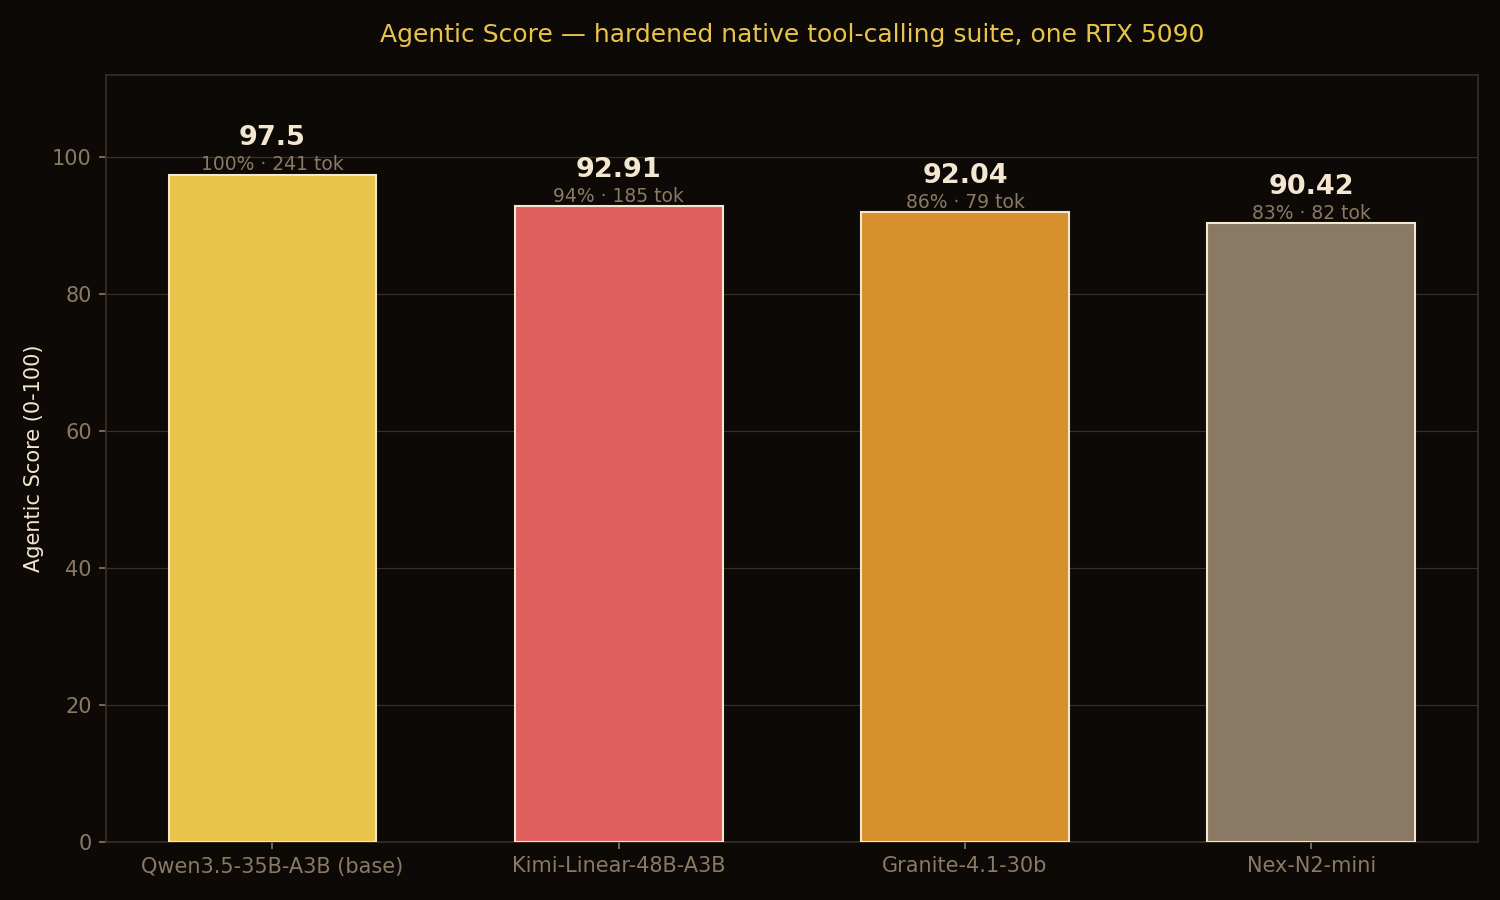
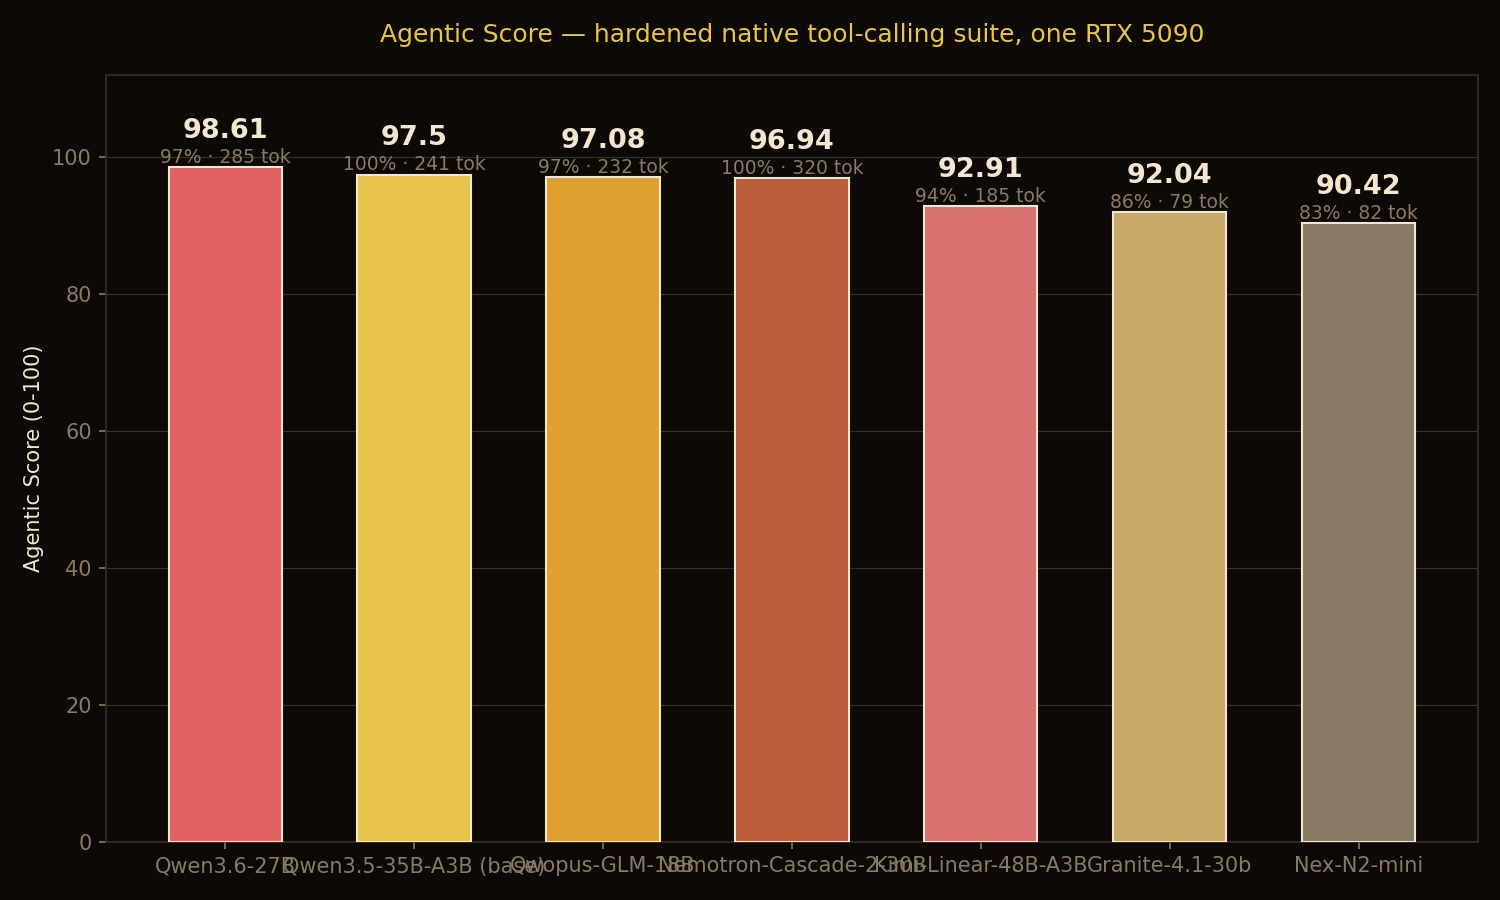
feat(agentic): expand leaderboard to 7 models (hermes-pairing cohort)
Added Qwen3.6-27B, Nemotron-Cascade-2-30B, Qwopus-GLM-18B (all cached, all gated pass).
Top 4 within 1.7pts (tie). Qwen3.6-27B (Donald's model) #1 w/ perfect tool-eff; Qwopus
18B merge punches to #3 + holds 128K on 13GB; long-context needs room AND retrieval
(Granite OOMs, Nemotron fits-but-retrieves-0). 7-model charts + report + HF republish.

diff --git a/scripts/chart_agentic_leaderboard.py b/scripts/chart_agentic_leaderboard.py
@@ -9,12 +9,15 @@ import numpy as np
 BG, GOLD, CRIMSON, TEXT, GRID, MUTE = ("#0d0906", "#e8c44a", "#e06060", "#f5e6d0", "#3a2f25", "#8a7a64")
 AMBER = "#d8902f"
 
-# Kimi highlighted crimson = the hardened-suite find (best all-rounder + holds 128K)
+# 7-model board (ordered by Agentic Score). Warm brand palette, varied for legibility.
 MODELS = [
-    ("kimi-linear-48b-a3b", "Kimi-Linear-48B-A3B",  CRIMSON),
+    ("qwen3-6-27b",         "Qwen3.6-27B",            CRIMSON),
     ("qwen3-5-35b-base",    "Qwen3.5-35B-A3B (base)", GOLD),
-    ("granite-4-1-30b",     "Granite-4.1-30b",      AMBER),
-    ("nex-n2-mini",         "Nex-N2-mini",          MUTE),
+    ("qwopus-glm-18b",      "Qwopus-GLM-18B",         "#e0a030"),
+    ("nemotron-cascade-2-30b", "Nemotron-Cascade-2-30B", "#b85c3c"),
+    ("kimi-linear-48b-a3b", "Kimi-Linear-48B-A3B",    "#d87070"),
+    ("granite-4-1-30b",     "Granite-4.1-30b",        "#c9a86a"),
+    ("nex-n2-mini",         "Nex-N2-mini",            MUTE),
 ]
 D = {s: json.loads(Path(f"results/{s}/agentic_native.json").read_text()) for s, _, _ in MODELS}
 
@@ -28,17 +31,24 @@ def lc(slug, tier):
 
 
 # --- Chart 1: efficiency frontier ---
-fig, ax = plt.subplots(figsize=(10, 6.5), facecolor=BG); ax.set_facecolor(BG)
-for slug, name, color in MODELS:
+SHORT = {"qwen3-6-27b": "Qwen3.6-27B", "qwen3-5-35b-base": "Qwen3.5 base",
+         "qwopus-glm-18b": "Qwopus-18B", "nemotron-cascade-2-30b": "Nemotron-C2",
+         "kimi-linear-48b-a3b": "Kimi-Linear", "granite-4-1-30b": "Granite-30B",
+         "nex-n2-mini": "Nex-N2-mini"}
+fig, ax = plt.subplots(figsize=(11, 6.5), facecolor=BG); ax.set_facecolor(BG)
+# sort by x (tokens) and alternate label up/down so x-adjacent points never collide
+by_x = sorted(MODELS, key=lambda m: D[m[0]]["tokens_per_task"])
+for rank, (slug, name, color) in enumerate(by_x):
     d = D[slug]
     x, y = d["tokens_per_task"], d["task_success_pct"]
-    ax.scatter([x], [y], s=320, color=color, edgecolor=TEXT, zorder=4, linewidth=1.2)
-    ax.annotate(f"{name}\nscore {d['score']}  ·  {d['tool_eff']:.2f} tool-eff",
-                (x, y), color=TEXT, fontsize=10, ha="center", va="bottom",
-                xytext=(0, 14), textcoords="offset points")
+    ax.scatter([x], [y], s=260, color=color, edgecolor=TEXT, zorder=4, linewidth=1.2)
+    above = (rank % 2 == 0)
+    ax.annotate(f"{SHORT[slug]}  ({d['score']})", (x, y), color=TEXT, fontsize=9, ha="center",
+                va=("bottom" if above else "top"), xytext=(0, 12 if above else -12),
+                textcoords="offset points")
 ax.set_xlabel("tokens / task  (lower = leaner)", color=TEXT)
 ax.set_ylabel("task success %  (36-task hardened suite)", color=TEXT)
-ax.set_xlim(40, 290); ax.set_ylim(78, 106)
+ax.set_xlim(20, 370); ax.set_ylim(76, 106)
 ax.set_title("Hardened agentic suite: efficiency and robustness pull apart", color=GOLD, pad=16, fontsize=12.5)
 for s in ax.spines.values(): s.set_color(GRID)
 ax.tick_params(colors=MUTE); ax.grid(True, color=GRID, linewidth=0.6, zorder=0)

diff --git a/scripts/build_agentic_leaderboard.py b/scripts/build_agentic_leaderboard.py
@@ -20,6 +20,13 @@ META = {
     "kimi-linear-48b-a3b": {"name": "Kimi-Linear-48B-A3B", "params": "48B-A3B", "quant": "Q4_K_M",
                             "repo": "bartowski/moonshotai_Kimi-Linear-48B-A3B-Instruct-GGUF",
                             "note": "linear-attention; runs natively on one 5090; long-context untested here"},
+    "qwen3-6-27b":         {"name": "Qwen3.6-27B", "params": "27B", "quant": "Q6_K",
+                            "repo": "unsloth/Qwen3.6-27B-GGUF", "note": "dense 27B; the model Donald itself runs"},
+    "nemotron-cascade-2-30b": {"name": "Nemotron-Cascade-2-30B", "params": "30B-A3B", "quant": "Q4_K_M",
+                            "repo": "bartowski/nvidia_Nemotron-Cascade-2-30B-A3B-GGUF",
+                            "note": "Nvidia; the rig's prior speed-king"},
+    "qwopus-glm-18b":      {"name": "Qwopus-GLM-18B", "params": "18B", "quant": "Q6_K",
+                            "repo": "KyleHessling1/Qwopus-GLM-18B-Merged-GGUF", "note": "GLM-based community merge"},
 }
 
 rows = []

diff --git a/reports/agentic-leaderboard.md b/reports/agentic-leaderboard.md
@@ -1,63 +1,63 @@
-# Agentic Score leaderboard (hardened): efficiency and robustness pull apart
+# Agentic Score leaderboard (7 models): small models punch up, long-context splits the field
 
 **Rig:** one RTX 5090 32GB · llama.cpp b9562 · native OpenAI tool-calling (`--jinja`) · temp 0
-**Harness (hardened):** 40 deterministic tasks — 36 across **five short-context axes** (chain, multistep,
-coding, **error-recovery**, **distractor**) scored into the Agentic Score, plus a **separate long-context
-axis** (a `read_doc` tool returns a seeded document with a buried activation code, at 32K and 128K).
-Programmatic verification; a sub-5% score gap is a tie.
+**Harness:** 40 deterministic tasks — 36 across **five short-context axes** (chain, multistep, coding,
+error-recovery, distractor) → the Agentic Score, plus a **separate long-context axis** (`read_doc` returns
+a seeded document with a buried activation code, at 32K and 128K). Programmatic verification; sub-5% = tie.
 
 ## The board
 
 | # | model | params | Agentic Score | success | tool-eff | tok/task | error-rec | lc@32K | lc@128K |
 |---|---|---|---|---|---|---|---|---|---|
-| 1 | Qwen3.5-35B-A3B (base) | 35B-A3B | **97.5** | 100% | 0.88 | 241 | 6/6 | 100% | 50%* |
-| 2 | **Kimi-Linear-48B-A3B** | 48B-A3B | 92.9 | 94% | 0.78 | 185 | 6/6 | 100% | **100%** |
-| 3 | Granite-4.1-30b | 30B | 92.0 | 86% | **0.95** | **79** | **2/6** | 50% | **OOM** |
-| 4 | Nex-N2-mini | 35B-A3B | 90.4 | 83% | 0.94 | 82 | 4/6 | 100% | **100%** |
+| 1 | Qwen3.6-27B | 27B | **98.6** | 97% | **1.00** | 285 | 6/6 | 100% | **100%** |
+| 2 | Qwen3.5-35B-A3B (base) | 35B-A3B | 97.5 | 100% | 0.88 | 241 | 6/6 | 100% | 50%* |
+| 3 | **Qwopus-GLM-18B** | 18B | 97.1 | 97% | 0.92 | 232 | 6/6 | 100% | **100%** |
+| 4 | Nemotron-Cascade-2-30B | 30B-A3B | 96.9 | 100% | 0.85 | 320 | 6/6 | 50% | **0%** |
+| 5 | Kimi-Linear-48B-A3B | 48B-A3B | 92.9 | 94% | 0.78 | 185 | 6/6 | 100% | **100%** |
+| 6 | Granite-4.1-30b | 30B | 92.0 | 86% | 0.95 | **79** | **2/6** | 50% | **OOM** |
+| 7 | Nex-N2-mini | 35B-A3B | 90.4 | 83% | 0.94 | 82 | 4/6 | 100% | **100%** |
 
-## What hardening revealed (the thin 15-task board hid all of this)
+## Findings
 
-**1. The board reshuffled.** Granite-4.1-30b — the previous "efficiency king" at 96 on the easy suite —
-dropped to 92.0 and 3rd. Kimi-Linear rose. A 15-task board that everyone nearly aced wasn't measuring
-the things that separate agentic models.
+**The top four are a tie.** Qwen3.6-27B (98.6), base Qwen3.5 (97.5), Qwopus-GLM-18B (97.1) and
+Nemotron-Cascade-2 (96.9) are within 1.7 points — a statistical wash on the score alone. The real
+separation is in **tokens, error-recovery, and long-context**, not the headline number.
 
-**2. Error-recovery is the discriminating axis.** When a tool returns an error **with a hint**
-(`record '7' not found; ids are zero-padded`, or `use https://`), the model has to adapt. Base Qwen and
-Kimi recover cleanly (6/6) — which proves the tasks are solvable — but **Granite recovers only 2/6**. It
-is lean and tight on the happy path and then doesn't adjust when a tool pushes back. This is exactly the
-failure mode single-call function-calling benchmarks (BFCL etc.) never test, and it's most of why Granite
-fell. Nex is middling (4/6).
+**The model the rig runs is the best agent tested.** Qwen3.6-27B — *Donald's own deployed model* — tops
+the board with a perfect 1.00 tool-efficiency (never a wasted call) and holds 128K. Nice to learn your
+own stack is well-chosen.
 
-**3. Long-context reach splits on architecture.** The A3B models — Kimi-Linear (linear attention) and
-Nex-N2-mini (standard A3B MoE) — both hold **100% needle-finding at 128K** on one 5090; their modest KV
-fits alongside the weights. The **dense Granite-4.1-30b walls at 128K** (OOM) and only finds the needle
-50% of the time even at 32K — the compact model is the weakest at long context. Kimi-Linear is the
-cleanest of all: 100% at both tiers, and it's the largest model on the board (48B).
+**Small models punch up — size isn't the story, training is.** **Qwopus-GLM-18B**, an 18B *community
+merge*, lands 3rd: it beats Kimi-Linear-48B, Granite-30B and Nex-35B outright, is the **leanest of the
+top cluster** (232 tok), and **holds 128K at 100%** on just 13GB of weights. The 18B punches two weight
+classes up.
 
-\* **Qwen base at 128K = 50%** with an asterisk: one of its two 128K requests returned a server-side
-**500** at the very edge of the context window (an llama.cpp hiccup, not a clean model miss); the other
-succeeded. Recorded honestly as 1/2. (The harness now guards per-task exceptions so one bad request can't
-void a tier — a fix this run forced.)
+**Long-context needs two things: room and retrieval.** Four models hold 128K needle-finding at 100%
+(Qwen3.6-27B, Qwopus-18B, Kimi-Linear, Nex). Two fail for *different* reasons:
+- **Granite-4.1-30b walls (OOM)** — a VRAM problem (its KV won't fit 128K on 32GB), and even at 32K it's
+  only 50%.
+- **Nemotron-Cascade-2 fits 128K but retrieves 0/2** — an *ability* problem, not memory. The rig's old
+  speed-king serves the context fine and then can't find the needle in it.
 
-## No single winner
+**Error-recovery isolates one model.** Six of seven recover 5–6/6 when a tool errors with a hint
+(`ids are zero-padded`, `use https`). **Granite recovers 2/6** — it's the lean, tight-tool-use model that
+falls apart the moment a tool pushes back. Nex is the other soft spot (4/6).
 
-- **Base Qwen3.5-35B** tops the Agentic Score (100% short-task success) — but it's the token glutton (241)
-  and shaky at 128K.
-- **Kimi-Linear-48B** is the best all-rounder: 2nd on score, **and the long-context champion** (100% at
-  128K). If your agent loops over big contexts, this is the pick.
-- **Granite-4.1-30b** is the cheapest competent agent on the happy path (79 tok/task, 0.95 tool-eff) but
-  **brittle**: it can't recover from tool errors and can't hold long context. Great when nothing goes
-  wrong; risky when something does.
-- **Nex-N2-mini** is lean and reaches 128K, but lowest short-task success.
+\* Qwen base 128K = 1/2: one request hit a server-side 500 at the context edge (infra, not a model miss);
+recorded honestly.
 
 ## Worth it?
 
-Cheap and robust are different axes, and this suite finally measures both. Reach for **Kimi-Linear** for
-long-context agentic work, **base Qwen** when you need maximum completion and can pay the tokens, and
-**Granite** only for short, well-behaved tool loops where its efficiency shines and nothing will push back.
+- **Qwen3.6-27B** — the best all-round agent here, and what the rig already runs.
+- **Qwopus-GLM-18B** — the value pick: top-cluster quality, long-context, smallest footprint.
+- **Granite-4.1-30b** — cheapest per task (79 tok) but brittle: no error-recovery, no long context. Short,
+  well-behaved loops only.
+- **Nemotron-Cascade-2** — strong short-task completion, but token-heavy and blind past short context.
+
+Cheap, robust, and long-context-capable are three different axes. The hardened suite finally measures all
+three — and no single model wins all of them.
 
 ---
 
-*Harness: `lib/agentic/native/` in notwitcheer/llm-bench-rig (34 unit tests). Charts:
-`agentic-leaderboard-frontier.png`, `-score.png`, `-longctx.png`. Live board:
-witcheer/agentic-score-leaderboard.*
+*Harness: `lib/agentic/native/` in notwitcheer/llm-bench-rig (34 unit tests). Charts: frontier / score /
+long-ctx. Live board: witcheer/agentic-score-leaderboard.*

diff --git a/leaderboard/README.md b/leaderboard/README.md
@@ -24,10 +24,13 @@ Updated **2026-06-09** · llama.cpp b9562 · `--jinja` native tool-calling · te
 
 | # | model | params | Agentic Score | success | tool-eff | tokens/task | chain | multistep | coding | lc@32k | lc@128k |
 |---|---|---|---|---|---|---|---|---|---|---|---|
-| 1 | **Qwen3.5-35B-A3B (base)** 🏆 | 35B-A3B | **97.5** | 100% | 0.88 | 241 | 8/8 | 8/8 | 8/8 | 100% | 50% |
-| 2 | **Kimi-Linear-48B-A3B** | 48B-A3B | **92.91** | 94% | 0.78 | 185 | 7/8 | 7/8 | 8/8 | 100% | 100% |
-| 3 | **Granite-4.1-30b** | 30B | **92.04** | 86% | 0.95 | 79 | 8/8 | 8/8 | 7/8 | 50% | OOM |
-| 4 | **Nex-N2-mini** | 35B-A3B | **90.42** | 83% | 0.94 | 82 | 7/8 | 7/8 | 7/8 | 100% | 100% |
+| 1 | **Qwen3.6-27B** 🏆 | 27B | **98.61** | 97% | 1.00 | 285 | 8/8 | 8/8 | 8/8 | 100% | 100% |
+| 2 | **Qwen3.5-35B-A3B (base)** | 35B-A3B | **97.5** | 100% | 0.88 | 241 | 8/8 | 8/8 | 8/8 | 100% | 50% |
+| 3 | **Qwopus-GLM-18B** | 18B | **97.08** | 97% | 0.92 | 232 | 8/8 | 8/8 | 8/8 | 100% | 100% |
+| 4 | **Nemotron-Cascade-2-30B** | 30B-A3B | **96.94** | 100% | 0.85 | 320 | 8/8 | 8/8 | 8/8 | 50% | 0% |
+| 5 | **Kimi-Linear-48B-A3B** | 48B-A3B | **92.91** | 94% | 0.78 | 185 | 7/8 | 7/8 | 8/8 | 100% | 100% |
+| 6 | **Granite-4.1-30b** | 30B | **92.04** | 86% | 0.95 | 79 | 8/8 | 8/8 | 7/8 | 50% | OOM |
+| 7 | **Nex-N2-mini** | 35B-A3B | **90.42** | 83% | 0.94 | 82 | 7/8 | 7/8 | 7/8 | 100% | 100% |
 
 *tool-eff = tool calls vs optimal (1.0 = no wasted calls). tokens/task = avg completion tokens (lower =
 leaner). A sub-5% score gap is a tie.*
@@ -58,7 +61,10 @@ work. Harness + 17 unit tests: **[notwitcheer/llm-bench-rig](https://github.com/
 
 ## Notes per model
 
+- **Qwen3.6-27B** (unsloth/Qwen3.6-27B-GGUF): dense 27B; the model Donald itself runs
 - **Qwen3.5-35B-A3B (base)** (bartowski/Qwen_Qwen3.5-35B-A3B-GGUF): generalist base, no agentic post-train
+- **Qwopus-GLM-18B** (KyleHessling1/Qwopus-GLM-18B-Merged-GGUF): GLM-based community merge
+- **Nemotron-Cascade-2-30B** (bartowski/nvidia_Nemotron-Cascade-2-30B-A3B-GGUF): Nvidia; the rig's prior speed-king
 - **Kimi-Linear-48B-A3B** (bartowski/moonshotai_Kimi-Linear-48B-A3B-Instruct-GGUF): linear-attention; runs natively on one 5090; long-context untested here
 - **Granite-4.1-30b** (unsloth/granite-4.1-30b-GGUF): leanest competent agent on the board
 - **Nex-N2-mini** (eramax/Nex-N2-mini-gguf): agentic post-train of Qwen3.5; Adaptive Thinking
